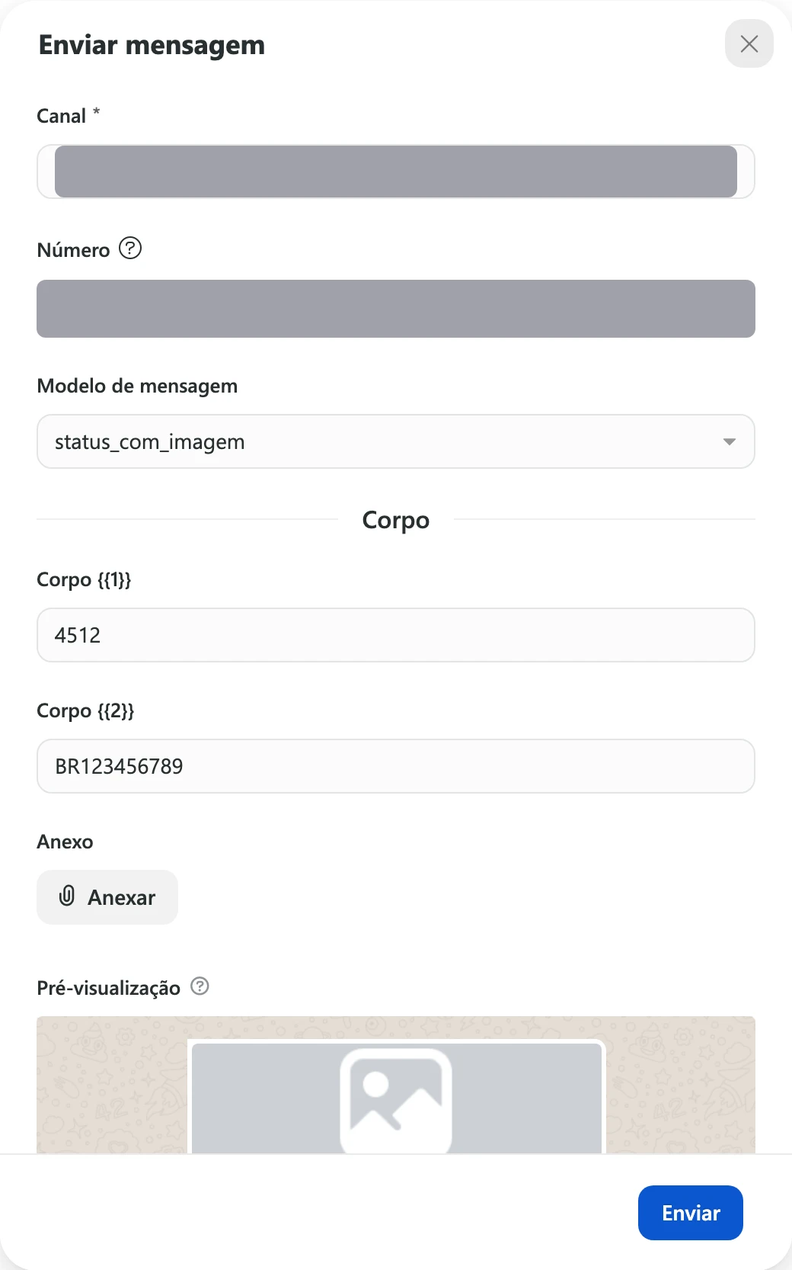
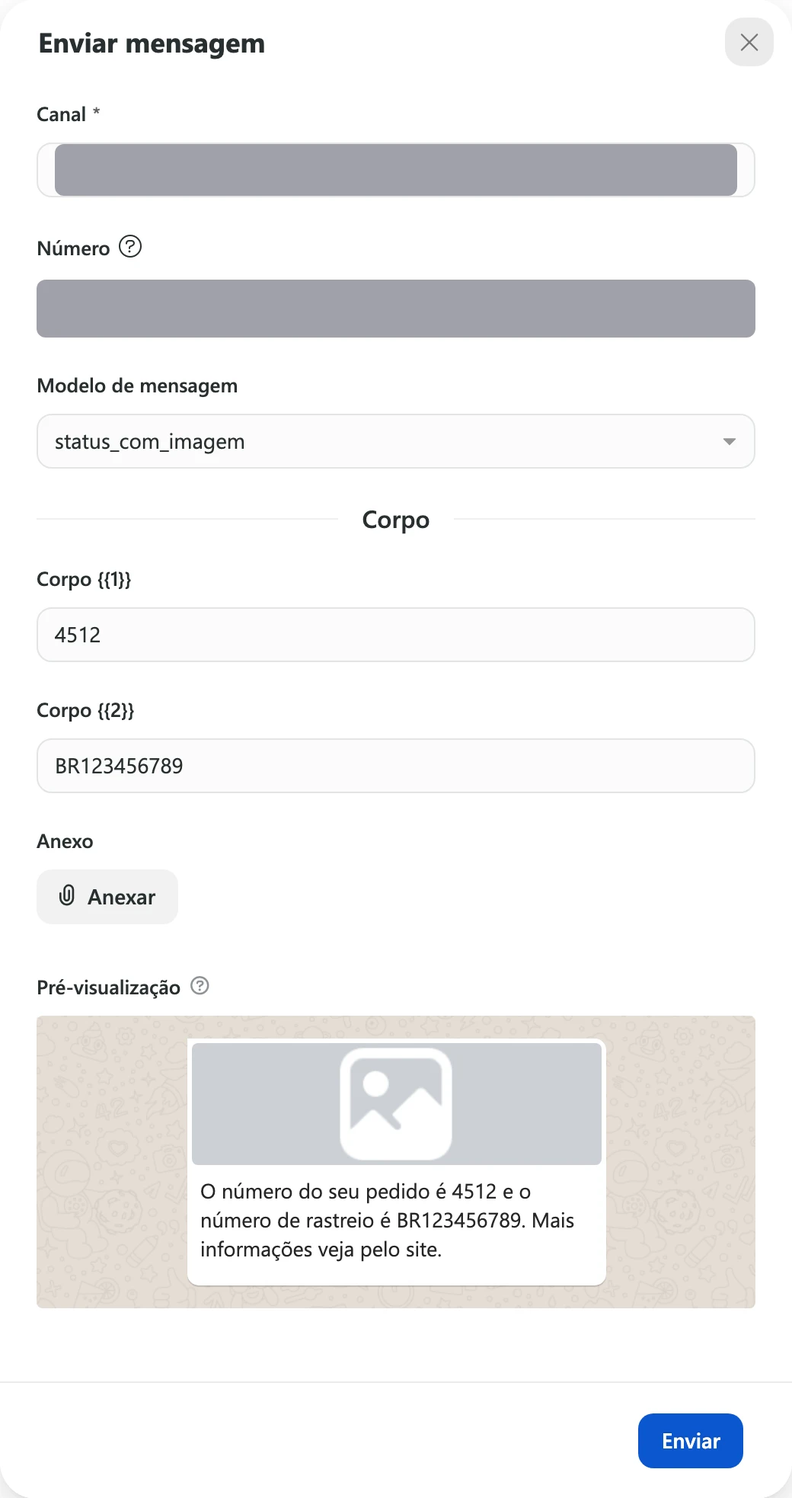
fix(ajuda): correções do conselho (rodada 1) na seção Templates, Flows e carrossel
- Envio: título "Enviar um template aprovado"; tabela com a regra de cada
  lugar; variáveis em três linhas; sessão (não conversa) nova quando a última
  estava resolvida; Note de quem pode; bot, cenários, agentes e "como aparece
  na conversa" foram para a irmã LLM.
- Flows: Requisição em três frases com o gatilho Webhook recebido; grupos de
  componentes sem tabela (detalhe na irmã); exemplo do começo ao envio;
  ícone de play do Simular flow.
- Irmã de Flows: telas Sucesso/Erro só na requisição do botão (reaproveita as
  ligadas), Testar exige o Flow salvo, falha de endpoint → suporte.
- Visão geral: atalho pela aba Templates só em canal conectado pela janela da
  Meta; Authentication × Autenticação; "onde usar" em uma frase; títulos dos
  cartões iguais aos das páginas.
- Criar template: regra × rótulo da Amostra de mídia; Note em template
  rejeitado.
- Irmãs e FAQs: links em vez de títulos entre aspas, sem jargão interno.
- Prints: Enviar mensagem com a pré-visualização inteira, editor de Flow mais
  próximo com "Formulário", Conteúdo sem rebarba (campo `altura` no
  capturar.ts).
- Merge da revisao-inicial (seção conversas).

Origem: web:src/pages/settings/whatsappApi/flow/WhatsappDataExchangeModal.tsx,
web:src/pages/settings/whatsappApi/flow/helpers/dataExchangeAutoScreen.ts,
web:src/pages/settings/workflows/actions/trigger/editable-triggers/EditWebhookReceived.tsx,
web:src/pages/settings/channels/whatsappCloud/EditWhatsappCloud.tsx,
[…]

diff --git a/scripts/screenshots/capturar.ts b/scripts/screenshots/capturar.ts
@@ -38,6 +38,8 @@ type Item = {
   paginas?: string[]
   /** Largura da janela (px) só para este item, para telas largas demais. Padrão: 1440. Abaixo de 768 o app usa o layout antigo. */
   largura?: number
+  /** Altura da janela (px) só para este item, para modais altos que passam da tela. Padrão: 900. */
+  altura?: number
   /** Workspace onde o print é tirado. Padrão: o workspace de documentação. Outro workspace só para telas que ele não tem (ex.: WhatsApp), sempre com `mascarar`. */
   workspace?: string
 }
@@ -177,7 +179,7 @@ async function recorte(page: Page, alvo: string | string[]) {
   const x = Math.max(0, Math.min(...caixas.map((c) => c.x)))
   const y = Math.max(0, Math.min(...caixas.map((c) => c.y)))
   const direita = Math.min(page.viewportSize()?.width || VIEWPORT.width, Math.max(...caixas.map((c) => c.x + c.width)))
-  const baixo = Math.min(VIEWPORT.height, Math.max(...caixas.map((c) => c.y + c.height)))
+  const baixo = Math.min(page.viewportSize()?.height || VIEWPORT.height, Math.max(...caixas.map((c) => c.y + c.height)))
   return { x, y, width: direita - x, height: baixo - y }
 }
 
@@ -191,7 +193,7 @@ async function garantirWorkspace(page: Page, nome: string) {
 
 async function capturar(page: Page, conversor: Page, item: Item) {
   await garantirWorkspace(page, item.workspace || DOCS_WORKSPACE_NAME)
-  await page.setViewportSize({ width: item.largura || VIEWPORT.width, height: VIEWPORT.height })
+  await page.setViewportSize({ width: item.largura || VIEWPORT.width, height: item.altura || VIEWPORT.height })
   await page.goto(WEB_URL + item.url, { waitUntil: 'domcontentloaded' })
   await page.waitForLoadState('networkidle').catch(() => {})
   await page.addStyleTag({ content: CSS_ESTAVEL })

diff --git a/llm/canais/criar-flows-dentro-do-kinbox.md b/llm/canais/criar-flows-dentro-do-kinbox.md
@@ -29,7 +29,7 @@ codigo:
 verificado_em: 2026-11-26
 ---
 
-Referência técnica complementar à página humana "Criar WhatsApp Flows (formulários no WhatsApp)".
+Regras, limites e mensagens dos WhatsApp Flows. Os passos estão em [Criar WhatsApp Flows (formulários no WhatsApp)](/docs/canais/criar-flows-dentro-do-kinbox).
 
 ## Estados (Status × Publicação Meta)
 
@@ -40,13 +40,27 @@ Referência técnica complementar à página humana "Criar WhatsApp Flows (formu
 - **Descontinuado**: bloqueia edição, publicação e ativação (`"Flow descontinuado não pode ser editado, publicado ou ativado novamente."`). Restam apenas **Clonar** e **Exportar JSON**.
 - **Excluir vs. Descontinuar**: apenas Flows não publicados podem ser excluídos (também apaga eventual rascunho na Meta e requisições salvas). Flows publicados precisam ser descontinuados (`"Flows publicados ou descontinuados não podem ser excluídos. Descontinue Flows publicados e mantenha o histórico sincronizado com a Meta."`); descontinuar rascunho pela API retorna `"Apenas Flows publicados na Meta podem ser descontinuados. Rascunhos devem ser excluídos."`.
 
+## Componentes por grupo
+
+| Grupo | Componentes e opções |
+| --- | --- |
+| **Enviar mensagem** | **Título grande**, **Título pequeno** (sem negrito ou itálico, aceitam emoji), **Legenda**, **Corpo** (negrito, itálico, tachado e emoji) e **Resposta da integração** (mostra um **Dado da integração** vindo de uma requisição da tela anterior). |
+| **Mídia** | **Imagem**: **Enviar imagem** (JPG ou PNG até 1 MB) e **Altura** (padrão 180). |
+| **Resposta em texto** | **Resposta curta**: **Formato** (Texto, Número, E-mail, Telefone, Senha, Código/senha curta), **Validação rápida**, **Mín. caracteres**/**Máx. caracteres** (menos em E-mail), **Regex** (Texto, Número, Senha, Código) e **Texto de ajuda**. **Parágrafo**: só **Texto de ajuda**. **Seletor de data**: **Data mínima**, **Data máxima**, **Texto de ajuda** e **Atualizar ao selecionar**. |
+| **Seleção** | **Escolha única**, **Múltipla escolha**, **Lista suspensa**, **Aceitar** e **Chips**. **Origem das opções**: **Opções estáticas** (ID, Título, Descrição), **Dado da integração** ou **Faixa numérica** (não existe em Múltipla escolha). **Valor inicial fixo** e **Preencher com dado da integração**. **Mín. itens**/**Máx. itens** em Múltipla escolha e Chips. |
+| **Uploads** | **Foto** (Origem: Câmera e galeria, Câmera ou Galeria; Tamanho máx. (KB); Mín./Máx. fotos) e **Documento** (Tamanho máx. (KB); Mín./Máx. docs; tipos de arquivo permitidos, ex. `application/pdf,image/png`). |
+| **Avançado** | **Texto rico** (negrito, itálico, listas e links), **Link** (texto até 25; **Abrir URL** ou **Navegar** para outra tela) e **Lista de navegação**. |
+
+- Campos que o contato preenche pedem **Nome técnico** e **Rótulo**; **Obrigatório** vem ligado. O **Nome técnico** é o que aparece em cada linha da **Resposta do Flow** na conversa.
+- **Condições** em quase todos os componentes: **Visível quando** e **Habilitado quando**, com campo, operador (Igual, Diferente, Maior que, Menor que, Maior ou igual, Menor ou igual, Vazio, Preenchido, Contém, Quantidade igual/maior que/menor que) e valor.
+
 ## Limites do editor e da validação
 
 | Item | Limite / regra |
 | --- | --- |
 | JSON do Flow | Até 10 MB |
 | Componentes por tela | Até 50 |
-| Botão de rodapé por tela | 1 (texto do botão até 35 caracteres; checado pela API) |
+| Botão de rodapé por tela | 1 (texto do botão até 35 caracteres; o campo deixa digitar mais, mas a publicação recusa) |
 | Imagens por tela | Até 3 (JPG ou PNG até 1 MB; acima de 300 KB gera aviso de recomendação da Meta) |
 | Links por tela | Até 2 (texto do link até 25 caracteres) |
 | Componentes **Aceitar** por tela | Até 5 (rótulo até 120 caracteres) |
@@ -83,7 +97,7 @@ Quando um texto contém variável dinâmica, a validação conta apenas o texto 
 - **Sem canal oficial**: `"Nenhum canal oficial disponível para publicar o Flow."`
 - **Pendente credenciais**: quando o canal oficial não tem acesso válido à Meta para publicar, o Flow fica salvo com o status **Pendente credenciais**; o aviso da tela pode mostrar o código `missing_credentials` em vez do texto "Flow salvo, mas aguardando credenciais Meta para publicar.".
 - **Categoria inválida**: `"Categoria de Flow inválida: {{category}}"`
-- **Requisição na publicação**: Flows com requisição externa exigem que a URL pública HTTPS da Kinbox usada pela Meta esteja configurada corretamente (mensagens possíveis: `"Flow usa data_exchange, mas não possui endpoint configurado."`, `"Flow usa data_exchange e a Meta exige endpoint público HTTPS para publicar."`, `"Flow usa data_exchange, mas o endpoint configurado não é público."`).
+- **Requisição na publicação**: se a publicação de um Flow com **Requisição** falhar com uma mensagem sobre endpoint, fale com o suporte.
 - **Flow publicado não recebe alterações posteriores**: depois de publicado, **Publicar** desaparece do menu e novas edições salvas no editor não são enviadas à Meta. Para alterar um Flow publicado, clique em **Clonar** (o clone nasce sem canal e inativo), abra **Editar** para associar o canal, faça as alterações e publique o clone para usá-lo no template.
 - **Trocar canal em Editar**: trocar o canal de um Flow que já tinha canal cria uma cópia associada ao novo canal (`"Flow duplicado e associado ao canal."`). Em um Flow sem canal, apenas associa (`"Flow associado ao canal."`).
 - **Sincronizar Meta**: `"Sync de flows concluído."` ou `"Sync de flows parcial: {{synced}} flow(s) sincronizado(s), {{failed}} com erro."`. Flows criados direto na Meta e sincronizados têm as telas reconstruídas no editor a partir do JSON.
@@ -94,8 +108,8 @@ Quando um texto contém variável dinâmica, a validação conta apenas o texto 
 - **URL**: obrigatória (`"Informe a URL"`); aceita variáveis de dados e precisa estar acessível pela internet. URL inválida retorna `"URL externa de Data Exchange inválida."`.
 - **Autenticação**: Nenhuma, Bearer, Basic ou Headers customizados. Novos cabeçalhos nascem marcados como **Segredo** (assim como Bearer e Basic), ficam cifrados e são exibidos como `********`.
 - **Timeout (ms)**: de **1000** a **30000** ms (padrão **8000** ms; valores fora da faixa são ajustados para os limites).
-- **Teste obrigatório**: é obrigatório clicar em **Testar** antes de salvar, e qualquer alteração exige um novo teste (`"Teste a chamada antes de salvar esta configuração."` / `"Teste a chamada para poder salvar."`). Sucesso: `"Chamada de teste executada."`; falha: `"Falha ao testar Data Exchange."`. Outros erros: `"Payload de teste precisa ser um JSON válido."`, `"Revise os campos obrigatórios antes de testar."`, `"JSON customizado inválido."`, `"Não foi possível identificar a integração. Feche e reabra a configuração."`, `"Salve o Flow antes de testar o Data Exchange."`.
-- **Saídas e falha**: ao escolher o primeiro campo da resposta, a Kinbox cria automaticamente as telas **Sucesso** e **Erro**. Se a chamada falhar (resposta diferente de 2xx, timeout ou URL inválida), o fluxo segue pela saída de erro com a mensagem retornada pelo sistema externo ou `"Falha ao executar Data Exchange."`. Sem tela ligada na saída, o simulador avisa `"Nenhuma tela conectada para essa saída."`.
+- **Teste obrigatório**: **Testar** só funciona com o Flow já salvo (`"Salve o Flow antes de testar o Data Exchange."`). É obrigatório testar antes de salvar a configuração, e qualquer alteração exige um novo teste (`"Teste a chamada antes de salvar esta configuração."` / `"Teste a chamada para poder salvar."`). Sucesso: `"Chamada de teste executada."`; falha: `"Falha ao testar Data Exchange."`. Outros erros: `"Payload de teste precisa ser um JSON válido."`, `"Revise os campos obrigatórios antes de testar."`, `"JSON customizado inválido."`, `"Não foi possível identificar a integração. Feche e reabra a configuração."`, `"Salve o Flow antes de testar o Data Exchange."`.
+- **Saídas e falha**: na requisição do **Botão** da tela (ação **Requisição**), ao escolher o primeiro campo da resposta a Kinbox liga a tela a uma tela de **Sucesso** e a uma de **Erro**: cria as que faltam e aproveita a tela que já estiver ligada nessas saídas. A tela de erro criada assim já mostra a mensagem de erro. Se a chamada falhar (resposta diferente de 2xx, tempo esgotado ou URL inválida), o Flow segue pela saída de erro com a mensagem do sistema externo ou `"Falha ao executar Data Exchange."`. Sem tela ligada na saída, o simulador avisa `"Nenhuma tela conectada para essa saída."`.
 - **Atualizar ao selecionar**: disponível em campos de seleção (exceto **Aceitar**) e **Seletor de data**; envia todos os campos da tela (modo automático) ou campos customizados e atualiza a mesma tela sem criar saída no canvas. Sem requisição na tela, exibe `"Nenhuma integração criada nesta tela."`.
 
 ## Navegação e botão (casos de borda)
@@ -121,7 +135,7 @@ Quando um texto contém variável dinâmica, a validação conta apenas o texto 
 
 ## Mensagens de erro e sucesso
 
-- **Imagem**: arquivo acima de 5 MB exibe `"Imagem deve ter no máximo 5 MB."`; entre 1 MB e 5 MB exibe `"Imagem de Flow deve ter no máximo 1 MB."`. Pela API: `"{{path}}: tipo de imagem não suportado. Use JPEG ou PNG."`, `"{{path}}: imagem excede o limite: {{actual}}/{{limit}} bytes."`, `"{{path}}: imagem com {{bytes}} bytes; a Meta recomenda até 300 KB para Flow Image."`.
+- **Imagem**: arquivo acima de 5 MB exibe `"Imagem deve ter no máximo 5 MB."`; entre 1 MB e 5 MB exibe `"Imagem de Flow deve ter no máximo 1 MB."`. Na publicação: `"{{path}}: tipo de imagem não suportado. Use JPEG ou PNG."`, `"{{path}}: imagem excede o limite: {{actual}}/{{limit}} bytes."`, `"{{path}}: imagem com {{bytes}} bytes; a Meta recomenda até 300 KB para Flow Image."`.
 - **Validação de campos no editor**: `"Configure nome e rótulo"`, `"Configure a seleção"`, `"Configure a lista"`, `"Configure os chips"`, `"Configure o link"`, `"Informe o texto"`, `"{{label}} deve ser um número inteiro maior ou igual a 0."`, `"Máx. caracteres deve ser maior ou igual ao mínimo."`, `"{{label}} deve ser um número inteiro entre {{min}} e {{max}}."`, `"Máx. docs deve ser maior ou igual ao Mín. docs."`, `"Informe o mínimo de documentos"`, `"Informe o máximo de documentos"`, `"{{label}} excede o limite: {{actual}}/{{limit}} caracteres."`.
-- **Validação da API na publicação** (`"Flow inválido: ..."`): `"{{path}} excede o limite: {{actual}}/{{limit}} itens."`, `"{{path}} precisa ter pelo menos {{limit}} itens; atual: {{actual}}."`, `"{{screenId}} é terminal e precisa de um Footer."`, `"Pelo menos uma tela precisa ser terminal."`, `"{{label}} precisa de name e label."`, `"{{label}}.data-source precisa ter opções ou ${data.campo}."`, `"{{label}}.on-click-action.next.name é obrigatório."`.
+- **Erros na publicação** (`"Flow inválido: ..."`): `"{{path}} excede o limite: {{actual}}/{{limit}} itens."`, `"{{path}} precisa ter pelo menos {{limit}} itens; atual: {{actual}}."`, `"{{screenId}} é terminal e precisa de um Footer."`, `"Pelo menos uma tela precisa ser terminal."`, `"{{label}} precisa de name e label."`, `"{{label}}.data-source precisa ter opções ou ${data.campo}."`, `"{{label}}.on-click-action.next.name é obrigatório."`.
 - **Ações da lista e do editor**: `"Flow salvo."`, `"Flow atualizado."`, `"Flow clonado."`, `"Flow excluído."`, `"Flow descontinuado."`, `"Flow publicado."`, `"Nenhuma alteração para salvar."`, `"Não foi possível publicar o Flow."`, `"Não foi possível alterar o status do flow."`, `"Não foi possível descontinuar o Flow na Meta."`, `"A Meta não confirmou a descontinuação do Flow."`, `"Não foi possível deletar o Flow na Meta."`, `"A Meta não confirmou a exclusão do Flow."`, `"A API não confirmou a exclusão do Flow."`, `"A API não confirmou a descontinuação do Flow."`, `"Flow não encontrado"`.

diff --git a/llm/canais/whatsapp/whatsapp-templates/enviar-template.md b/llm/canais/whatsapp/whatsapp-templates/enviar-template.md
@@ -28,7 +28,7 @@ codigo:
 verificado_em: 2026-11-26
 ---
 
-Referência técnica complementar à página humana "Enviar um template na conversa, na campanha e na automação".
+Detalhes do envio de templates aprovados do WhatsApp oficial. O passo a passo está em [Enviar um template aprovado](/docs/canais/whatsapp/whatsapp-templates/enviar-template).
 
 ## Origem da lista de templates aprovados
 
@@ -53,7 +53,23 @@ Referência técnica complementar à página humana "Enviar um template na conve
 - **Campos em branco**: a tela não bloqueia campos de variável vazios, mas a Meta pode recusar o envio.
 - **Variáveis nomeadas** (por exemplo `{{nome_cliente}}` criadas direto na Meta): não ganham campo de preenchimento na tela de envio.
 
-## Erros exatos na janela Enviar mensagem e no servidor
+## Como o template aparece na conversa
+
+- **Template comum**: o balão mostra o anexo do cabeçalho (se houver) e o texto do corpo com as variáveis preenchidas. Cabeçalho de texto, rodapé e botões não aparecem no balão.
+- **Template + Flow**: cartão com o texto e o botão do Flow; clicar no botão abre a pré-visualização do Flow.
+- **Template + Carrossel**: cartões lado a lado.
+- **Erro na Meta**: o balão fica com o ícone de erro; o motivo aparece ao passar o mouse.
+- O template entra na conversa do contato naquele canal: na sessão aberta, se houver; se a última sessão estava resolvida, começa uma sessão nova atribuída a quem enviou.
+
+## Bot, cenários e agentes de IA
+
+- **Bot (bloco Notificar)**: escolher um canal oficial em **Do canal** troca o texto livre pelo seletor de template. **Para celular** é opcional ("Incluir código do país e ddd"); em branco, o template vai para o contato que o bot está atendendo. Número inválido: "Digite um celular válido".
+- **Cenários (ação Enviar mensagem de conversa)**: com canal oficial é sempre template. Campos: **Modelo de mensagem** (obrigatório), **Cabeçalho** `{{n}}`, **Corpo** `{{n}}`, botões e, para cabeçalho de mídia, **URL da mídia** (obrigatório) e **Nome do arquivo** (documento). A mídia é um link, não um upload. O canal usado é o da conversa referenciada, quando ela tem um. A ação de criar conversa dos Cenários não tem seletor de template.
+- **Agentes de IA**: ação **Enviar template WhatsApp** ("O template aprovado é enviado sempre — dentro ou fora da janela de 24h do WhatsApp."), com campos de cabeçalho e corpo fixos ou gerados pela IA; e a opção **Usar template caso conversa expirada** em **Enviar mensagem** e nos follow-ups.
+- **Automação Iniciar conversa**: só existe no gatilho **Tempo sem conversa ao criar contato**; com canal oficial em **Canal**, o template aparece no lugar de **Texto** e pode rodar um bot junto.
+- **Automação Agendar mensagem template**: **Para quando?** (próximo horário comercial, depois de um tempo, próximo dia da semana e horário), **Canal** (só oficiais) e o template.
+
+## Erros exatos ao enviar
 
 Na janela **Enviar mensagem**, erros por número aparecem sob `"Os seguintes números tiveram erros ao enviar. Verifique se os números estão corretos:"` no formato `"{número} - {erro}"`:
 
@@ -95,7 +111,7 @@ Vários números separados por vírgula na janela **Enviar mensagem**: o limite 
 - **Campanhas**: usa um único canal oficial por campanha. Quando a Meta recusa o disparo de um destinatário, a coluna **Detalhes** exibe o motivo retornado pela Meta ou `"Falha interna ao enviar a mensagem"`. A conversa só é criada quando o contato responde, já trazendo o balão do template disparado.
 - **Automações**: nas ações **Agendar mensagem template** e **Iniciar conversa**, use templates sem mídia no cabeçalho. Validações de configuração: `"Informe o template"` e `"Informe a mensagem (ou o template no canal oficial)"`.
 - **Bot (bloco Notificar)**: com carrossel exige canal e template (`"Template e canal são obrigatórios para notificação de carrossel"`). O envio registra a nota `"Template [nome] enviado"` na conversa.
-- **Canal Apenas Receptivo**: não aparece na lista de canais de **Enviar mensagem** e o servidor recusa o envio com `"Esse canal não tem permissão para chat ativo"`. Em uma conversa desse canal com a janela de 24 horas fechada, não é possível enviar template.
+- **Canal Apenas Receptivo**: não aparece na lista de canais de **Enviar mensagem** e o envio é recusado com `"Esse canal não tem permissão para chat ativo"`. Em uma conversa desse canal com a janela de 24 horas fechada, não é possível enviar template.
 - **Onde não existe seletor de template**: ações de automação **Enviar mensagem** e **Agendar mensagem** (texto) e ação de criar conversa nos Cenários.
 
 ## API pública

diff --git a/llm/faq/whatsapp-template-variaveis.md b/llm/faq/whatsapp-template-variaveis.md
@@ -37,12 +37,12 @@ Você cria o template usando variáveis numéricas (`{{1}}`, `{{2}}`...) com amo
 - No **Corpo da mensagem**, as variáveis não podem ficar no início nem no fim do texto; no cabeçalho de texto, há no máximo uma variável.
 
 **Ao enviar o template:**
-- Ao selecionar o modelo, a Kinbox mostra um campo para cada variável (**Cabeçalho {{n}}**, **Corpo {{n}}** e URL do botão). Preencha todos os campos para evitar recusa da Meta.
+- Ao selecionar o modelo, a Kinbox mostra um campo para cada variável (**Cabeçalho** `{{n}}`, **Corpo** `{{n}}` e URL do botão). Preencha todos os campos para evitar recusa da Meta.
 - **Na conversa, no Agendar mensagem, nas automações e no bloco Notificar do bot**: você pode digitar texto fixo ou uma chave do contato (`{{first_name}}`, `{{name}}`, `{{email}}`, `{{phone}}`, `{{protocol}}`, `{{operator}}` ou campo personalizado). As chaves do contato são trocadas apenas no **Corpo** e na **URL** do botão — não no **Cabeçalho**. A **Pré-visualização** não substitui chaves do contato.
 - **Na campanha**: chaves do contato não funcionam. Digite `{{2}}`, `{{3}}` e assim por diante para usar a 2ª, 3ª e demais colunas do arquivo de destinatários (`{{1}}` é o número).
 - **Nos cenários**: use as variáveis do próprio cenário em qualquer campo.
 
-Mais detalhes nas páginas "Criar um template e enviar para aprovação" e "Enviar um template na conversa, na campanha e na automação".
+Mais detalhes em [Criar um template e enviar para aprovação](/docs/canais/criar-templates-dentro-do-kinbox) e [Enviar um template aprovado](/docs/canais/whatsapp/whatsapp-templates/enviar-template).
 
 ## Variações
 - como colocar o nome do cliente no template do whatsapp

diff --git a/llm/canais/criar-templates-dentro-do-kinbox.md b/llm/canais/criar-templates-dentro-do-kinbox.md
@@ -39,11 +39,11 @@ codigo:
 verificado_em: 2026-11-26
 ---
 
-Referência técnica complementar às páginas humanas "Criar um template e enviar para aprovação", "Criar um carrossel" e "Meu template foi rejeitado, pausado ou desativado".
+Regras e mensagens dos templates e carrosséis do WhatsApp oficial. Os passos estão em [Criar um template e enviar para aprovação](/docs/canais/criar-templates-dentro-do-kinbox), [Criar um carrossel](/docs/canais/criar-carrossel-dentro-do-kinbox) e [Meu template foi rejeitado, pausado ou desativado](/docs/canais/whatsapp/whatsapp-templates/template-rejeitado).
 
 ## Tabela completa de status do template
 
-A coluna **Status** exibe o status informado pela Meta quando ele existe; caso contrário, exibe o status local da Kinbox. Internamente, templates pausados e desativados são tratados como recusados, mas a tela mostra os rótulos **Pausado** e **Desativado** vindos da Meta.
+A coluna **Status** exibe o status informado pela Meta quando ele existe; caso contrário, exibe o status local da Kinbox.
 
 | Status na tela | Significado | Bloqueia edição? |
 | --- | --- | --- |

diff --git a/llm/faq/whatsapp-template-tempo-de-aprovacao.md b/llm/faq/whatsapp-template-tempo-de-aprovacao.md
@@ -34,7 +34,7 @@ Enquanto a Meta avalia o modelo, o template aparece com status **Pendente** (ou 
 
 A Kinbox atualiza o status automaticamente assim que a Meta responde, reconsulta a cada 15 minutos os templates em análise enviados nos últimos 30 dias e envia uma notificação no sino (**Template aprovado:** ou **Template recusado:**). Você também pode forçar a atualização usando **Sincronizar Meta** no menu de três pontos acima da tabela.
 
-Mais detalhes nas páginas "Criar um template e enviar para aprovação" e "Meu template foi rejeitado, pausado ou desativado".
+Mais detalhes em [Criar um template e enviar para aprovação](/docs/canais/criar-templates-dentro-do-kinbox) e [Meu template foi rejeitado, pausado ou desativado](/docs/canais/whatsapp/whatsapp-templates/template-rejeitado).
 
 ## Variações
 - quanto tempo demora a aprovação de um modelo de mensagem

diff --git a/scripts/screenshots/README.md b/scripts/screenshots/README.md
@@ -5,7 +5,7 @@ Ferramentas para tirar os prints da central de ajuda no staging, sempre no works
 | Arquivo | Para que serve |
 | --- | --- |
 | `seed.ts` | Cria ou completa o workspace de documentação (`Loja Exemplo`) |
-| `manifesto.yml` | Um item por print: `id`, `url`, `passos`, `alvo`, `mascarar`, `arquivo`, `paginas` e, opcionais, `workspace` e `largura` (janela mais estreita para telas que ficam largas demais) |
+| `manifesto.yml` | Um item por print: `id`, `url`, `passos`, `alvo`, `mascarar`, `arquivo`, `paginas` e, opcionais, `workspace`, `largura` (janela mais estreita para telas que ficam largas demais) e `altura` (janela mais alta para modais que passam da tela) |
 | `capturar.ts` | Abre o staging com Playwright e gera os WebP em `images/ajuda/<secao>/<nome>.webp` |
 | `staging.ts` | Login e chamadas às APIs do staging, usado pelos dois scripts |
 

diff --git a/llm/faq/whatsapp-template-sem-canal-oficial.md b/llm/faq/whatsapp-template-sem-canal-oficial.md
@@ -30,7 +30,7 @@ Existem quatro causas comuns para não conseguir criar ou editar templates em **
 3. **Falta a permissão Gerenciar Canais**: sem essa permissão (ou sem ser o proprietário do workspace), o menu **WhatsApp API** não aparece e abrir o endereço diretamente mostra `"Você não tem permissão para acessar essa página"`.
 4. **O template já existe e está em análise pela Meta**: enquanto estiver em análise, ele fica bloqueado para edição até receber um status final.
 
-Mais detalhes na página "Templates, Flows e carrossel: o que é cada um".
+Mais detalhes em [Templates, Flows e carrossel: o que é cada um](/docs/canais/whatsapp/whatsapp-templates/visao-geral).
 
 ## Variações
 - não aparece a opção de criar template na kinbox

diff --git a/llm/faq/whatsapp-template-categoria.md b/llm/faq/whatsapp-template-categoria.md
@@ -29,7 +29,7 @@ No editor da Kinbox você escolhe entre **Marketing**, **Utility** e **Authentic
 
 A Kinbox não tem ação para pedir a categoria anterior de volta e não cobra pelo envio de templates. Se a nova categoria não atender ao seu uso, edite o conteúdo do template, salve e clique em **Enviar atualização para a Meta**, ou crie um novo template.
 
-Mais detalhes na página "Meu template foi rejeitado, pausado ou desativado".
+Mais detalhes em [Meu template foi rejeitado, pausado ou desativado](/docs/canais/whatsapp/whatsapp-templates/template-rejeitado).
 
 ## Variações
 - a meta trocou meu template de utilidade para marketing
